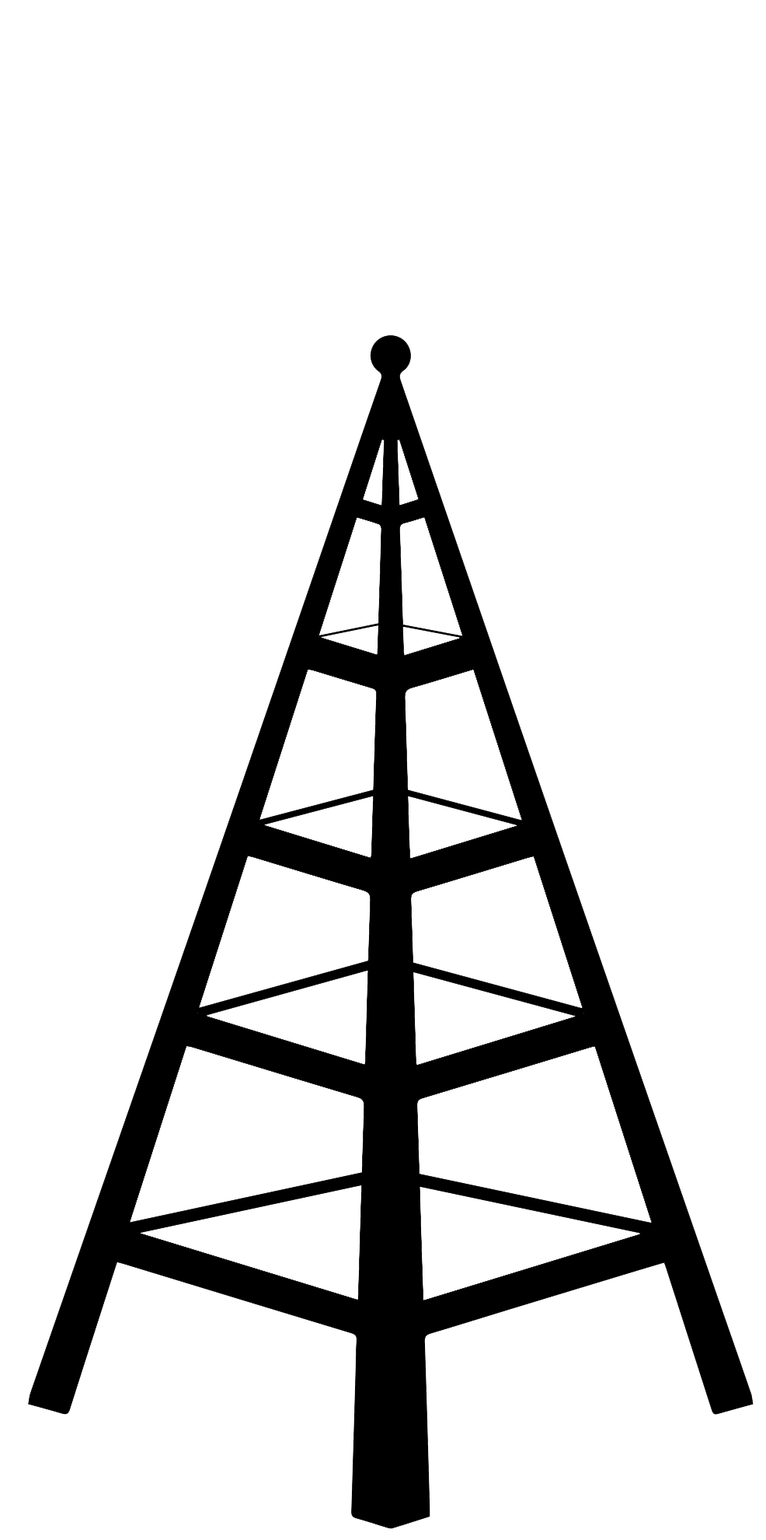
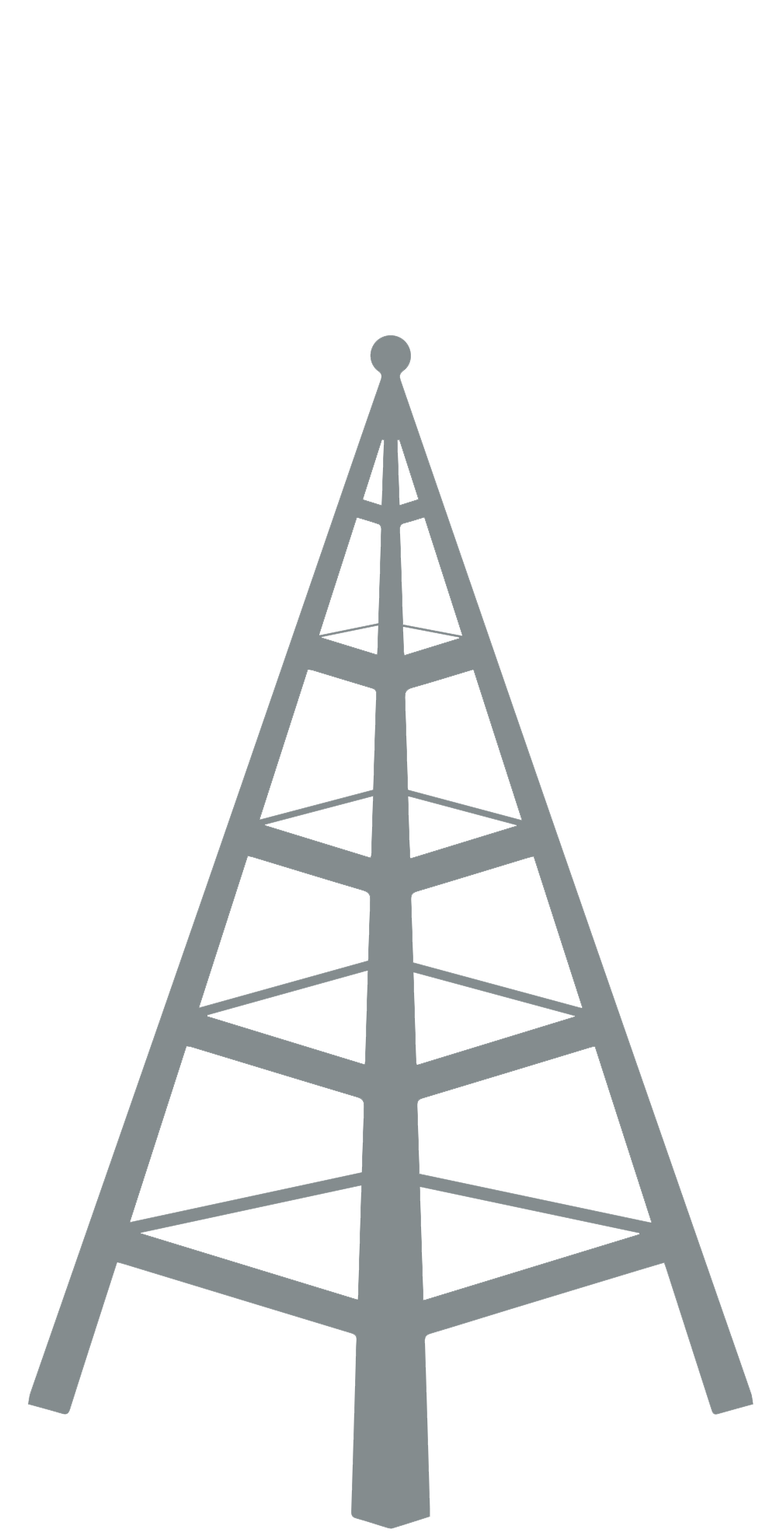
updated homepage

Changed region(s): [[0.0304, 0.2157, 1.0, 1.0]]

diff --git a/public/styles/generalStyling.min.css b/public/styles/generalStyling.min.css
@@ -1,1 +1,1 @@
-body,html{margin:0;padding:0;height:100%}body{margin-top:30px;font-family:Assistant,sans-serif}h1,h2,h3,h4,h5,h6{font-family:"Merriweather Sans",sans-serif;font-weight:700;letter-spacing:normal}h1{color:#ff9b42;font-size:64px;text-align:center}.navbar-default{border:none;background-color:#848c8e}.navbar-default .navbar-nav>li>a{color:#fff}.navbar-default .navbar-nav>li>a:hover{color:#008fbe}.navbar-default .navbar-nav>.open>a,.navbar-default .navbar-nav>.open>a:focus,.navbar-nav>.open>a:hover{color:#008fbe!important;background-color:#848c8e!important}.navbar-default .navbar-nav>li>a:focus{color:#fff}.dropdown-menu{background-color:#848c8e;border-top:none}.dropdown-menu>li>a{color:#fff}.dropdown-menu>li>a:hover{background-color:#008fbe}.logo{float:left;margin-left:11rem;margin-top:.5rem}@media (max-width:375px){.logo{margin-left:6.25rem}}@media (min-width:376px) and (max-width:667px){.logo{margin-left:8rem}}@media (min-width:668px) and (max-width:768px){.logo{margin-left:8.5rem}}@media (min-width:769px) and (max-width:1024px){.logo{margin-left:9rem}}.navbar-nav{margin-left:50px;background-color:#848c8e}#navShape,.nav-shape-shadow{width:100px;height:50px;background:0 0;position:fixed;margin-left:5%;margin-top:-2.2em;z-index:999}.nav-shape-shadow{margin-top:-27px}#navShape:after,.nav-shape-shadow:after{content:"";position:absolute;bottom:-15px;left:-40px;width:0;height:0;border-left:100px solid transparent;border-right:100px solid transparent;border-top:25px solid #848c8e;z-index:999}.nav-shape-shadow:after{border-top:29px solid #008fbe;border-left:120px solid transparent;border-right:120px solid transparent;left:-60px}.navbar-shadow{background-color:#008fbe;margin-top:-34px;margin-left:-12px;width:103%;position:fixed;z-index:998}main{padding-top:10px}.home-container{width:100%;padding-left:0;padding-right:0}.tower-image{position:absolute;height:700px;z-index:9999;top:500px}#home-images{z-index:1;position:relative;height:250px}#home-images img{height:250px;display:block}#home-content{width:100%;margin:auto;padding-top:10px;padding-bottom:10px;position:relative;text-align:center}#home-content h1{font-size:5rem}#home-content h3{margin-top:.5rem;font-size:3rem;font-family:Assistant,sans-serif}.home-sub-content{border-top:3px solid #ff9b42}.home-sub-content:last-of-type{border-top:none;padding-bottom:20px}.home-sub-content .col-xs-6{padding-left:40px}.home-sub-content .col-xs-6:last-child{padding-left:0;padding-right:40px}.services-container{width:100%;margin:auto;position:fixed}.services-container .menu-header{margin-top:35px}.services-container .services-menu{border-right:2px solid #008fbe}.services-container .services-menu ul{list-style:none}.services-container .services-menu li{font-family:"Josefin Slab",serif;letter-spacing:2px;font-size:21px;padding-top:5px;padding-bottom:5px;color:#ff9b42;transition:all .25s;width:auto}.services-container .services-menu li.selected,.services-container .services-menu li:hover{border-bottom:1px solid #008fbe;color:#008fbe}.services-container h1{font-size:36px;text-align:left;margin-top:1rem;margin-bottom:2.5rem;color:#008fbe}.services-container p{font-size:1.5em;width:85%;margin-left:auto;margin-right:auto}.services-container p:first-of-type{margin-bottom:30px}.services-container p h3{text-align:center}.services-container .services-content{padding-top:5px}.services-container .services-content h3{text-align:center}.services-container .services-content ul{list-style-type:circle}.services-container .services-content li{font-family:Assistant,sans-serif;font-size:1.5em}.services-container .services-content .service-type{color:#ff9b42;text-decoration:underline}.who-container{margin-left:-5%}.who-container h1,.who-container h3{text-align:center}.who-container h3{margin-top:0}.who-images{padding-top:5%;margin-top:1%}.who-images .slick-slider{width:150px;height:150px;margin-bottom:5%}.who-images .slick-slider .slick-slide{width:150px;height:150px}.who-images .slick-slider .slick-slide img{max-width:150px;max-height:150px}.who-images .image-wrapper{margin-left:15%}.who-images img{margin-bottom:1%}.who-images img:last-child{margin-bottom:0}.who-content h1{font-size:32px}.who-content h3{text-align:center;margin-top:10px}.staff{width:250px;height:250px;position:absolute;transform-style:preserve-3d;transition:transform 1s}.ceo{margin-top:3%;background-image:url(../assets/images/staff/tie-640.jpg);background-position:center;width:250px;height:250px;border-radius:50%}.staff figure{margin:0;display:block;position:absolute;width:100%;height:100%;backface-visibility:hidden;border-radius:50%}.staff .front{background-color:#91b1bc;background-image:url(../assets/images/staff/tie-640.jpg);background-position:center}.staff .back{transform:rotateX(180deg)}.staff .back h3{max-width:150px;margin-left:auto;margin-right:auto}.staff .back::after{border-radius:50%;content:"";background:url(../assets/images/staff/tie-640.jpg) no-repeat center center;background-size:cover;opacity:.5;top:0;left:0;bottom:0;right:0;position:absolute;z-index:-1;-webkit-filter:grayscale(2);filter:grayscale(2)}.staff.flipped{transform:rotateX(180deg)}.staff-container{padding-bottom:50px}.staff-container h1{color:#ff9b42;text-align:center;margin-top:1rem;margin-bottom:2rem}.staff-container section{height:275px}.staff-container h3{text-align:center;font-size:16px;color:#fff;display:block}.staff-container .front h3{margin-top:20rem}.staff-container .back p{text-align:center;width:190px;height:190px;font-size:10px;margin-left:auto;margin-right:auto;color:#343839}.staff-container .ceo-text h3{color:#008fbe;text-align:left;font-size:21px}.staff-container .manage-heading{color:#ff9b42;font-size:36.57143px;margin-bottom:5%;margin-top:3%}.admin-edit-header{padding:30px 0;text-align:center}.admin-edit-header h1{color:#ff9b42;font-size:32px}.admin-edit-header .add-buttons{display:inline-block}.job-posting{border-left:2px solid #008fbe;text-align:left}.job-posting h4,.job-posting h5{font-size:18px}.job-posting p{font-size:21px}.apply-posting{min-height:450px}.apply-posting .apply-button{display:block;margin-left:auto;margin-right:auto}.job-post-controls{margin-top:25px}.job-post-controls .btn{margin-top:-34px;margin-right:15px}.onOffSwitch{display:inline-block}.onOffSwitch label,.onOffSwitch p{display:inline-block}.onOffSwitch p{margin-top:-24px;vertical-align:middle}.posting-section{margin-bottom:5%}.slider{background-color:#848c8e}input:checked+.slider{background-color:#008fbe}input:focus+.slider{box-shadow:0 0 1px #008fbe}.highlight-title strong{color:#008fbe}.modal-content{padding:20px}.modal-content h3{margin-top:0;color:#343839}.modal-content label{font-size:16px;color:#343839}.modal-content button{background-color:#008fbe;padding:6px 12px;font-size:14px;text-align:center;white-space:nowrap;vertical-align:middle;border-radius:4px;border:1px solid transparent;color:#fff;width:25%;margin:auto}.modal-content input,.modal-content trix-editor{appearance:none;border:1px solid #aaa;border-radius:5px;margin-bottom:9%}.modal-content trix-toolbar{margin-bottom:5%}.modal-content trix-toolbar button{background-color:transparent}.modal-content trix-editor{height:200px;margin-bottom:3%;overflow:scroll}.admin-page,.jobs-page{min-height:590px;padding-bottom:1%}.job-postings .row{width:95%;margin-left:auto;margin-right:auto}.applyNow form{padding:10px}.applyNow input{margin-bottom:15px;margin-right:10px;width:40%}.applyNow input.large-input{width:calc(80% + 15px)}.applyNow input[type=file]{margin-bottom:15px;width:82%}.applyNow input[type=submit]{margin-left:20%}.applyNow input[type=file]:focus{outline:0}.custom-file-input::-webkit-file-upload-button{visibility:hidden}.custom-file-input::before{content:'Upload Your Resume';-webkit-user-select:none;color:#fff;position:absolute;left:41.5%;transform:translate(-50%,0)}.custom-file-input{color:transparent}.custom-file-input:active,.custom-file-input:focus,.custom-file-input:hover{color:transparent;outline:0}.custom-file-input.btn-info:active:focus{color:transparent;outline:0}.job-content{text-align:left}.job-postings{border-left:2px solid #008fbe}.job-postings article{display:none}.job-posting{min-height:350px}.job-posting .admin-job{display:none}.job-title,.job-title strong{color:#ff9b42;text-decoration:underline;text-align:center;font-size:24px}.job-header .menu-header{margin-top:35px}.job-header h1{font-size:36px;text-align:left;margin-top:1rem;margin-bottom:2.5rem;margin-left:1rem;color:#008fbe}.edit-menu ul,.jobs-menu ul{list-style:none}.edit-menu li,.jobs-menu li{font-family:"Josefin Slab",serif;letter-spacing:2px;font-size:21px;padding-top:5px;padding-bottom:5px;color:#ff9b42;transition:all .25s;width:auto}.edit-menu li.selected,.edit-menu li:hover,.jobs-menu li.selected,.jobs-menu li:hover{border-bottom:1px solid #008fbe;color:#008fbe}.admin-load-text .subheading,.job-load-text .subheading{text-align:left}.admin-load-text h3,.job-load-text h3{text-align:center}.admin-load-text ul,.job-load-text ul{list-style:circle}#contactCallUs h1{font-size:32px}#headerSection{padding:10px}.admin-auth{appearance:none;-moz-appearance:none;-webkit-appearance:none;background-color:transparent;color:#cecece;border:none}.admin-auth:hover{color:#ff9b42}#footerSection{background:#848c8e;width:100%;height:auto;position:fixed;bottom:0;left:0;text-align:center;color:#cecece}#footerSection #footer-connect,#footerSection #footer-contact{margin-top:3px}#footerSection #footer-connect p,#footerSection #footer-contact p{text-decoration:underline}#footerSection #footer-address{margin-left:5px;text-align:left;margin-top:-12px;font-size:10px}#footerSection #footer-address p:nth-of-type(2){margin-top:-10px;margin-left:35px}#footerSection #footer-nums{font-size:10px;margin-top:-12px}#footerSection #footer-nums p:nth-of-type(2){margin-top:-10px}#footerSection #copyright{font-size:8px;text-align:right;margin-left:-5px}#footerSection #footer-socials{margin-top:-10px}#footerSection #footer-socials img:nth-of-type(2){margin-left:10px}#footerSection .social-icon{width:30px}.hidden{display:none}.btn-info{background-color:#008fbe;border-color:#008fbe}.btn-info:hover{background-color:#008fbe;border-color:#008fbe;opacity:.5}.btn-danger{background-color:#ff9b42;border-color:#ff9b42}.btn-danger:hover{background-color:#ff9b42;border-color:#ff9b42;opacity:.5}.subheading{width:95%;margin:0 auto;text-align:center;font-size:21px}.blue-highlight{color:#008fbe}
+body,html{margin:0;padding:0;height:100%}body{margin-top:30px;font-family:Assistant,sans-serif}h1,h2,h3,h4,h5,h6{font-family:"Merriweather Sans",sans-serif;font-weight:700;letter-spacing:normal}h1{color:#ff9b42;font-size:64px;text-align:center}.navbar-default{border:none;background-color:#848c8e}.navbar-default .navbar-nav>li>a{color:#fff}.navbar-default .navbar-nav>li>a:hover{color:#008fbe}.navbar-default .navbar-nav>.open>a,.navbar-default .navbar-nav>.open>a:focus,.navbar-nav>.open>a:hover{color:#008fbe!important;background-color:#848c8e!important}.navbar-default .navbar-nav>li>a:focus{color:#fff}.dropdown-menu{background-color:#848c8e;border-top:none}.dropdown-menu>li>a{color:#fff}.dropdown-menu>li>a:hover{background-color:#008fbe}.logo{float:left;margin-left:11rem;margin-top:.5rem}@media (max-width:375px){.logo{margin-left:6.25rem}}@media (min-width:376px) and (max-width:667px){.logo{margin-left:8rem}}@media (min-width:668px) and (max-width:768px){.logo{margin-left:8.5rem}}@media (min-width:769px) and (max-width:1024px){.logo{margin-left:9rem}}.navbar-nav{margin-left:50px;background-color:#848c8e}#navShape,.nav-shape-shadow{width:100px;height:50px;background:0 0;position:fixed;margin-left:5%;margin-top:-2.2em;z-index:999}.nav-shape-shadow{margin-top:-27px}#navShape:after,.nav-shape-shadow:after{content:"";position:absolute;bottom:-15px;left:-40px;width:0;height:0;border-left:100px solid transparent;border-right:100px solid transparent;border-top:25px solid #848c8e;z-index:999}.nav-shape-shadow:after{border-top:29px solid #008fbe;border-left:120px solid transparent;border-right:120px solid transparent;left:-60px}.navbar-shadow{background-color:#008fbe;margin-top:-34px;margin-left:-12px;width:103%;position:fixed;z-index:998}main{padding-top:10px}.home-container{width:100%;padding-left:0;padding-right:0}.tower-image{position:relative;height:550px;margin-top:-200px;margin-left:-85px}#home-images{padding:0;z-index:1;position:relative;height:400px}#home-images img{height:400px;display:block}#home-content{text-align:center}#home-content h1{margin-top:1em;font-size:64px}#home-content h3{margin-top:.5rem;font-size:21px;font-family:Assistant,sans-serif}.home-sub-content{border-top:3px solid #ff9b42}.home-sub-content:last-of-type{border-top:none;padding-bottom:20px}.home-sub-content .col-xs-6{padding-left:40px}.home-sub-content .col-xs-6:last-child{padding-left:0;padding-right:40px}.home-paragraph{color:#fff;font-size:21px;font-family:Assistant,sans-serif;width:85%;margin-left:auto;margin-right:auto}.home-paragraph:first-of-type{margin-top:50px}.home-paragraph:last-of-type{margin-bottom:50px}.home-button{width:200px;margin-left:auto;margin-right:auto;display:block}.work-contact-content h3,.work-home-content h3{margin-top:50px;text-align:center}.work-contact-content p,.work-home-content p{color:#fff;font-size:21px;margin-bottom:20px}.work-contact-content a,.work-home-content a{margin-bottom:20px}.worker-image{height:470px;position:relative;margin-top:-100px}.services-container{width:100%;margin:auto;position:fixed}.services-container .menu-header{margin-top:35px}.services-container .services-menu{border-right:2px solid #008fbe}.services-container .services-menu ul{list-style:none}.services-container .services-menu li{font-family:"Josefin Slab",serif;letter-spacing:2px;font-size:21px;padding-top:5px;padding-bottom:5px;color:#ff9b42;transition:all .25s;width:auto}.services-container .services-menu li.selected,.services-container .services-menu li:hover{border-bottom:1px solid #008fbe;color:#008fbe}.services-container h1{font-size:36px;text-align:left;margin-top:1rem;margin-bottom:2.5rem;color:#008fbe}.services-container p{font-size:1.5em;width:85%;margin-left:auto;margin-right:auto}.services-container p:first-of-type{margin-bottom:30px}.services-container p h3{text-align:center}.services-container .services-content{padding-top:5px}.services-container .services-content h3{text-align:center}.services-container .services-content ul{list-style-type:circle}.services-container .services-content li{font-family:Assistant,sans-serif;font-size:1.5em}.services-container .services-content .service-type{color:#ff9b42;text-decoration:underline}.who-container{margin-left:-5%}.who-container h1,.who-container h3{text-align:center}.who-container h3{margin-top:0}.who-images{padding-top:5%;margin-top:1%}.who-images .slick-slider{width:150px;height:150px;margin-bottom:5%}.who-images .slick-slider .slick-slide{width:150px;height:150px}.who-images .slick-slider .slick-slide img{max-width:150px;max-height:150px}.who-images .image-wrapper{margin-left:15%}.who-images img{margin-bottom:1%}.who-images img:last-child{margin-bottom:0}.who-content h1{font-size:32px}.who-content h3{text-align:center;margin-top:10px}.staff{width:250px;height:250px;position:absolute;transform-style:preserve-3d;transition:transform 1s}.ceo{margin-top:3%;background-image:url(../assets/images/staff/tie-640.jpg);background-position:center;width:250px;height:250px;border-radius:50%}.staff figure{margin:0;display:block;position:absolute;width:100%;height:100%;backface-visibility:hidden;border-radius:50%}.staff .front{background-color:#91b1bc;background-image:url(../assets/images/staff/tie-640.jpg);background-position:center}.staff .back{transform:rotateX(180deg)}.staff .back h3{max-width:150px;margin-left:auto;margin-right:auto}.staff .back::after{border-radius:50%;content:"";background:url(../assets/images/staff/tie-640.jpg) no-repeat center center;background-size:cover;opacity:.5;top:0;left:0;bottom:0;right:0;position:absolute;z-index:-1;-webkit-filter:grayscale(2);filter:grayscale(2)}.staff.flipped{transform:rotateX(180deg)}.staff-container{padding-bottom:50px}.staff-container h1{color:#ff9b42;text-align:center;margin-top:1rem;margin-bottom:2rem}.staff-container section{height:275px}.staff-container h3{text-align:center;font-size:16px;color:#fff;display:block}.staff-container .front h3{margin-top:20rem}.staff-container .back p{text-align:center;width:190px;height:190px;font-size:10px;margin-left:auto;margin-right:auto;color:#343839}.staff-container .ceo-text h3{color:#008fbe;text-align:left;font-size:21px}.staff-container .manage-heading{color:#ff9b42;font-size:36.57143px;margin-bottom:5%;margin-top:3%}.admin-edit-header{padding:30px 0;text-align:center}.admin-edit-header h1{color:#ff9b42;font-size:32px}.admin-edit-header .add-buttons{display:inline-block}.job-posting{border-left:2px solid #008fbe;text-align:left}.job-posting h4,.job-posting h5{font-size:18px}.job-posting p{font-size:21px}.apply-posting{min-height:450px}.apply-posting .apply-button{display:block;margin-left:auto;margin-right:auto}.job-post-controls{margin-top:25px}.job-post-controls .btn{margin-top:-34px;margin-right:15px}.onOffSwitch{display:inline-block}.onOffSwitch label,.onOffSwitch p{display:inline-block}.onOffSwitch p{margin-top:-24px;vertical-align:middle}.posting-section{margin-bottom:5%}.slider{background-color:#848c8e}input:checked+.slider{background-color:#008fbe}input:focus+.slider{box-shadow:0 0 1px #008fbe}.highlight-title strong{color:#008fbe}.modal-content{padding:20px}.modal-content h3{margin-top:0;color:#343839}.modal-content label{font-size:16px;color:#343839}.modal-content button{background-color:#008fbe;padding:6px 12px;font-size:14px;text-align:center;white-space:nowrap;vertical-align:middle;border-radius:4px;border:1px solid transparent;color:#fff;width:25%;margin:auto}.modal-content input,.modal-content trix-editor{appearance:none;border:1px solid #aaa;border-radius:5px;margin-bottom:9%}.modal-content trix-toolbar{margin-bottom:5%}.modal-content trix-toolbar button{background-color:transparent}.modal-content trix-editor{height:200px;margin-bottom:3%;overflow:scroll}.admin-page,.jobs-page{min-height:590px;padding-bottom:1%}.job-postings .row{width:95%;margin-left:auto;margin-right:auto}.applyNow form{padding:10px}.applyNow input{margin-bottom:15px;margin-right:10px;width:40%}.applyNow input.large-input{width:calc(80% + 15px)}.applyNow input[type=file]{margin-bottom:15px;width:82%}.applyNow input[type=submit]{margin-left:20%}.applyNow input[type=file]:focus{outline:0}.custom-file-input::-webkit-file-upload-button{visibility:hidden}.custom-file-input::before{content:'Upload Your Resume';-webkit-user-select:none;color:#fff;position:absolute;left:41.5%;transform:translate(-50%,0)}.custom-file-input{color:transparent}.custom-file-input:active,.custom-file-input:focus,.custom-file-input:hover{color:transparent;outline:0}.custom-file-input.btn-info:active:focus{color:transparent;outline:0}.job-content{text-align:left}.job-postings{border-left:2px solid #008fbe}.job-postings article{display:none}.job-posting{min-height:350px}.job-posting .admin-job{display:none}.job-title,.job-title strong{color:#ff9b42;text-decoration:underline;text-align:center;font-size:24px}.job-header .menu-header{margin-top:35px}.job-header h1{font-size:36px;text-align:left;margin-top:1rem;margin-bottom:2.5rem;margin-left:1rem;color:#008fbe}.edit-menu ul,.jobs-menu ul{list-style:none}.edit-menu li,.jobs-menu li{font-family:"Josefin Slab",serif;letter-spacing:2px;font-size:21px;padding-top:5px;padding-bottom:5px;color:#ff9b42;transition:all .25s;width:auto}.edit-menu li.selected,.edit-menu li:hover,.jobs-menu li.selected,.jobs-menu li:hover{border-bottom:1px solid #008fbe;color:#008fbe}.admin-load-text .subheading,.job-load-text .subheading{text-align:left}.admin-load-text h3,.job-load-text h3{text-align:center}.admin-load-text ul,.job-load-text ul{list-style:circle}#contactCallUs h1{font-size:32px}#headerSection{padding:10px}.admin-auth{appearance:none;-moz-appearance:none;-webkit-appearance:none;background-color:transparent;color:#cecece;border:none}.admin-auth:hover{color:#ff9b42}#footerSection{background:#848c8e;width:100%;height:auto;position:fixed;bottom:0;left:0;text-align:center;color:#cecece}#footerSection #footer-connect,#footerSection #footer-contact{margin-top:3px}#footerSection #footer-connect p,#footerSection #footer-contact p{text-decoration:underline}#footerSection #footer-address{margin-left:5px;text-align:left;margin-top:-12px;font-size:10px}#footerSection #footer-address p:nth-of-type(2){margin-top:-10px;margin-left:35px}#footerSection #footer-nums{font-size:10px;margin-top:-12px}#footerSection #footer-nums p:nth-of-type(2){margin-top:-10px}#footerSection #copyright{font-size:8px;text-align:right;margin-left:-5px}#footerSection #footer-socials{margin-top:-10px}#footerSection #footer-socials img:nth-of-type(2){margin-left:10px}#footerSection .social-icon{width:30px}.hidden{display:none}.btn-info{background-color:#008fbe;border-color:#008fbe}.btn-info:hover{background-color:#008fbe;border-color:#008fbe;opacity:.5}.btn-default{color:#fff;background-color:#cecece;border-color:#cecece}.btn-default:hover{color:#fff;background-color:#cecece;border-color:#cecece;opacity:.5}.btn-danger{background-color:#ff9b42;border-color:#ff9b42}.btn-danger:hover{background-color:#ff9b42;border-color:#ff9b42;opacity:.5}.subheading{width:95%;margin:0 auto;text-align:center;font-size:21px}.blue-highlight{color:#008fbe}

diff --git a/public/views/partials/home.html b/public/views/partials/home.html
@@ -1,16 +1,73 @@
-<img class="tower-image" src="../assets/images/Cell-Tower.png">
 <div class="container home-container">
-  <div id="home-content">
-    <h1>One Way Building Services</h1>
-    <h3>There’s only One Way <i class="fa fa-arrow-right orange-highlight" aria-hidden="true"></i>The Right Way</h3>
-  </div>
-  <div id="home-images" class="col-md-12" style="margin-bottom: 10px;" >
+  <div class='row' style="min-height: 250px; background-color:#ffffff;">
+  <div id="home-images" class="col-md-8">
     <img src="../assets/images/cell-tower-1920.jpg" alt="">
     <img src="../assets/images/Currents1_0117.jpg" alt="">
     <img src="../assets/images/Mobile-Mast-Antenna-Cell-Tower-Microwave-Tower-2252153.jpg" alt="">
     <img src="../assets/images/Cell_Tower_at_Sunset_CLOSE.jpg" alt="">
   </div>
-
-  <div class='row col-md-10' style="min-height: 250px; background-color:#2274A5; margin-bottom: 10px;"></div>
-  <div class='row col-md-10 col-md-offset-2' style="min-height: 250px; background-color:#CECECE; margin-bottom: 10px;"></div>
-  <div class='row col-md-10' style="min-height: 250px; background-color:#EE8434; margin-bottom: 10px;"></div>
+  <div class="col-md-4" id="home-content">
+    <h1>One Way Building Services</h1>
+    <h3>There’s only One Way <i class="fa fa-arrow-right orange-highlight" aria-hidden="true"></i>The Right Way</h3>
+  </div>
+</div>
+  <div class="row">
+    <div class='col-md-12' style="min-height: 350px; background-color:#2274A5;">
+      <h3 style="text-align: center;"> Since 1977 </h3>
+      <p class="home-paragraph">2017 marks One Way Building Services’ 40-year anniversary and we’re proud to have served countless customers throughout the Midwest and beyond. </p>
+      <p class="home-paragraph">With a vast portfolio of services offered under one roof, we are an all-encompassing provider of cellular telecommunications infrastructure and more.</p>
+      <a href="#!/services" class="btn btn-danger home-button">Learn More</a>
+    </div>
+  </div>
+  <div class="row">
+    <div class='col-md-8' style="min-height: 350px; background-color:#CECECE;">
+      <div class="col-md-7 col-md-offset-5 work-home-content">
+        <h3>Work <i class="fa fa-arrow-right orange-highlight" aria-hidden="true"></i> The Right Way. </h3>
+        <p>Work for One Way. More copy about working here.Lorem ipsum dolor sit amet, consectetur adipiscing elit. Suspendisse vehicula elementum risus, sit amet suscipit dolor blandit eget. Quisque vulputate nunc eget lorem mattis, et mollis augue mollis. Suspendisse ac ultricies lorem, sit amet auctor orci.</p>
+        <a href="#!/careers" class="btn btn-info home-button">Join Our Team</a>
+      </div>
+    </div>
+    <div class="col-md-4 work-image">
+      <img class="worker-image" src="../assets/images/worker.png" alt="">
+    </div>
+  </div>
+  <div class="row">
+    <div class="col-md-4">
+    <svg class="tower-image" xmlns="http://www.w3.org/2000/svg" xmlns:xlink="http://www.w3.org/1999/xlink" version="1.1" x="0px" y="0px" viewBox="0 0 100 100" enable-background="new 0 0 100 100" xml:space="preserve"><g><path id="fourth-ray" fill-rule="evenodd" fill = "#343839" clip-rule="evenodd" d="M68.097,29.563c-0.893-0.333-1.65-0.799-2.491-1.182   c1.225-2.554,2.158-5.044,1.938-8.642c-0.275-4.475-2.172-8.087-4.891-10.825c-3.035-3.057-7.231-5.333-13.103-5.003   c-8.595,0.482-15.943,7.451-15.963,16.646c-0.007,3.152,0.751,5.371,1.938,7.823c-0.624,0.567-1.504,0.882-2.307,1.273   c-1.566-2.871-2.338-6.02-2.215-9.915c0.11-3.444,1.412-6.961,2.861-9.278c2.979-4.764,8.35-8.588,15.225-9.188   c0.967-0.084,1.829-0.076,2.86,0c6.894,0.505,12.396,4.309,15.41,9.096C70.454,15.285,71.635,23.739,68.097,29.563z"/><path id="third-ray" fill-rule="evenodd" fill = "#343839" clip-rule="evenodd" d="M62.099,26.652c-0.605-0.222-1.159-0.495-1.661-0.819   c2.99-7.502-1.993-14.831-9.135-15.373c-3.642-0.277-6.698,0.991-8.858,3.093c-2.566,2.496-4.57,8.171-2.215,12.371   c-0.315,0.478-1.064,0.527-1.476,0.91c-0.942-1.971-1.464-3.542-1.292-6.277c0.4-6.343,5.636-11.371,11.903-11.825   C59.136,8.024,65.884,17.715,62.099,26.652z"/><path id ="second-ray" fill = "#343839" fill-rule="evenodd" clip-rule="evenodd" d="M56.562,24.014c-0.29-0.108-0.488-0.307-0.831-0.364   c1.138-2.196,0.478-5.28-0.923-6.822c-3.621-3.989-11.159-1.334-10.519,4.821c0.083,0.803,0.477,1.127,0.461,2.092   c-0.236,0.041-0.424,0.127-0.554,0.272c-0.357-0.258-0.527-0.764-0.646-1.182c-1.231-4.347,1.977-8.4,5.813-8.824   C55.117,13.374,58.949,18.804,56.562,24.014z"/><path  id="first-ray" fill = "#343839"  fill-rule="evenodd" clip-rule="evenodd" d="M49.642,18.193c1.581-0.352,3.018,0.579,3.229,1.91   c0.583,3.659-5.091,4.06-5.167,0.546C47.674,19.26,48.467,18.454,49.642,18.193z M50.472,22.377   c2.237-0.187,1.966-3.823-0.461-3.457C47.611,19.283,48.324,22.557,50.472,22.377z"/><path id ="center" fill = "#343839"  fill-rule="evenodd" clip-rule="evenodd" d="M49.826,19.284c0.921-0.259,1.869,0.236,1.938,1.183   c0.137,1.877-2.891,2.193-2.953,0.182C48.79,19.973,49.118,19.483,49.826,19.284z"/><path fill = "#343839" fill-rule="evenodd" clip-rule="evenodd" d="M80.917,97.615c-1.48-1.302-3.009-2.545-4.577-3.749   c-0.174-0.109-0.354-0.212-0.492-0.355V93.5c-0.036-0.018-0.072-0.034-0.107-0.052l-0.062,0.017l-0.058-0.073   c-0.048-0.023-0.096-0.045-0.144-0.068c-1.173-0.575-2.222-1.537-3.485-1.884c-0.159-0.044-0.259-0.141-0.311-0.256   c-0.141-0.084-0.278-0.166-0.408-0.236c-0.088-0.02-0.175-0.024-0.263-0.039l-0.038,0.01L70.959,90.9   c-0.153-0.024-0.309-0.06-0.459-0.068c-0.254-0.016-0.403-0.183-0.457-0.375c-0.117-0.049-0.236-0.096-0.353-0.145   c-0.077-0.004-0.156-0.022-0.231-0.021c-0.209,0.004-0.343-0.104-0.417-0.244c-0.042-0.017-0.083-0.034-0.125-0.051   c-0.125-0.01-0.249-0.029-0.375-0.037c-0.578-0.037-0.633-0.85-0.164-0.978C62.801,67.213,57.221,45.448,51.764,23.56   c-0.995,0.297-1.957,0.297-2.953,0C43.783,44.088,38.25,64.961,33.125,85.232c-0.279,1.105-0.435,2.27-0.949,3.288   c-0.02,0.045-0.025,0.092-0.041,0.137c0.025,0.152-0.004,0.314-0.103,0.432c-0.014,0.108-0.028,0.217-0.032,0.328   c-0.004,0.156-0.068,0.273-0.16,0.354c0,0.188-0.033,0.343-0.192,0.374c-0.012-0.017-0.024-0.033-0.037-0.05   c-0.081,0.093-0.201,0.155-0.361,0.155c-0.037,0-0.064-0.014-0.097-0.02c-0.014,0.002-0.022,0.012-0.037,0.013   c0.025,0.027,0.05,0.053,0.07,0.084c-0.495,0.118-0.769,0.454-1.292,0.546l-0.108,0.136l-0.169-0.045   c-0.568,0.319-1.094,0.681-1.753,0.909c0.01-0.031,0.037-0.046,0.052-0.072c-1.104,0.809-2.342,1.422-3.397,2.303   c-0.066,0.056-0.136,0.088-0.207,0.105c-0.021,0.019-0.034,0.04-0.061,0.056c-0.301,0.18-0.586,0.381-0.872,0.582   c-1.466,1.228-2.833,2.565-4.092,4.03c20.826-0.055,41.875,0.113,62.555-0.086C81.553,98.385,81.229,98.004,80.917,97.615z    M63.852,83.231c-3.665-2.147-7.972-3.663-12.18-5.275c3.18-1.383,6.668-2.463,9.873-3.82   C62.313,77.167,63.083,80.199,63.852,83.231z M59.884,67.858c-2.762-1.188-5.406-2.493-8.212-3.638   c1.989-1.192,4.482-1.888,6.459-3.093C58.846,63.242,59.387,65.529,59.884,67.858z M55.824,51.576   c0.356,1.681,0.843,3.231,1.199,4.912c-1.959-0.828-3.766-1.806-5.721-2.638c0.473-0.608,1.316-0.738,2.03-1.092   c0.775-0.385,1.537-0.826,2.307-1.183H55.824z M54.993,48.393c-1.354-0.667-2.706-1.334-4.06-2.001   c0.699-0.796,2.008-0.993,2.86-1.638h0.276L54.993,48.393z M46.693,42.498c0.842-1.352,1.099-3.456,1.492-4.993   c0.5-1.954,1.087-3.843,1.106-5.879c0.003-0.271,0.183-0.422,0.389-0.464c-0.014-0.15-0.026-0.299-0.014-0.452   c0.026-0.315,0.284-0.475,0.532-0.479c-0.002-0.01-0.001-0.02-0.004-0.03c0.024,0.006,0.047,0.022,0.068,0.038   c0.227,0.023,0.428,0.175,0.403,0.471c-0.015,0.183,0,0.364,0.022,0.544c0.12,0.049,0.219,0.149,0.252,0.323   c0.346,1.832,1.37,3.656,1.448,5.521c0.074,1.776,0.722,3.761,1.385,5.438c0.094,0.237-0.003,0.417-0.165,0.516   c-0.002,0.024,0.007,0.038,0,0.067c0.021,0.05,0.021,0.081,0.018,0.106c0.093,0.124,0.12,0.29,0.086,0.442   c0.049,0.008,0.086,0.027,0.081,0.088c0.204,0.729-0.969,1.023-1.477,1.273c-0.698,0.344-1.439,0.709-2.03,1   c-0.647-0.188-1.215-0.597-1.845-0.91c-0.598-0.296-1.475-0.415-1.753-1.091c0.001-0.113,0.055-0.175,0.128-0.218   c-0.032-0.145-0.007-0.298,0.075-0.419h-0.019c-0.002-0.089,0.029-0.146,0.056-0.206C46.681,43.074,46.508,42.796,46.693,42.498z    M46.504,44.754c1.04,0.46,1.958,1.041,3.045,1.456c-0.445,0.539-1.185,0.781-1.846,1.092c-0.654,0.307-1.356,0.646-2.03,0.909   C45.876,46.985,46.24,45.919,46.504,44.754z M47.519,47.938c0.996-0.458,2.019-1.152,2.768-1.274   c1.336,0.575,2.746,1.289,4.061,2.001c0.431,0.233,1.052,0.316,0.923,1c-3.423,0.069-6.561-0.143-9.966-0.091   C45.337,48.598,46.655,48.335,47.519,47.938z M45.212,50.121c2.833-0.074,5.49,0.091,8.305,0.091c0.678,0,1.431-0.149,2.029,0.182   c0.154,0.655-0.605,0.812-1.015,1.001c-0.933,0.429-1.715,0.785-2.769,1.273c-0.479,0.222-1.028,0.629-1.384,0.637   c-0.517,0.011-2.167-0.896-2.769-1.183c-0.947-0.451-1.822-0.86-2.583-1.364C45.019,50.476,45.07,50.253,45.212,50.121z    M44.751,51.576c0.825,0.166,1.672,0.707,2.492,1.092c0.753,0.354,1.627,0.579,2.122,1.183c-2.005,0.812-3.802,1.831-5.813,2.638   C43.871,54.771,44.373,53.235,44.751,51.576z M44.382,56.943c1.846-0.876,4.017-1.976,5.905-2.82   c2.396,1.035,4.659,2.199,7.014,3.275c-0.005,0.432,0.336,0.896,0.185,1.182c-4.078-0.232-9.854,0.062-14.487-0.182   C42.975,57.458,43.701,57.267,44.382,56.943z M42.906,59.217c4.987,0.026,10.123-0.094,14.856,0.183   c0.158,0.208,0.088,0.641,0.276,0.818c-1.627,1.021-3.523,1.748-5.536,2.638c-0.544,0.241-1.408,0.809-1.846,0.819   c-0.453,0.011-1.541-0.562-2.122-0.819c-2.004-0.883-4.055-1.869-5.905-2.819C42.688,59.729,42.694,59.373,42.906,59.217z    M42.352,60.945c2.47,0.931,4.619,2.178,7.105,3.093c-0.56,0.609-1.479,0.771-2.214,1.092c-2.168,0.947-4.513,2.025-6.644,3.093   C40.94,65.922,41.839,63.382,42.352,60.945z M40.229,69.224c3.311-1.679,6.871-3.112,10.335-4.64   c3.266,1.42,6.567,2.805,9.688,4.366c0.061,0.607,0.27,1.069,0.369,1.638c-6.914-0.103-14.349-0.214-20.669,0.182   C39.827,70.374,40.206,69.767,40.229,69.224z M39.676,71.588c6.666-0.304,14.748-0.388,21.224-0.091   c0.082,0.556,0.255,1.022,0.369,1.547c-2.584,1.24-5.325,2.142-8.305,3.274c-0.859,0.326-2.083,1-2.861,1.001   c-0.8,0.001-1.879-0.661-2.768-1.001c-2.725-1.042-5.469-1.935-8.028-3.093C39.332,72.583,39.529,72.11,39.676,71.588z    M39.03,74.136c2.993,1.354,6.131,2.566,9.412,3.638c-0.297,0.45-0.918,0.548-1.384,0.729c-3.472,1.34-7.277,2.621-10.243,4.548   C37.332,80.224,38.274,77.028,39.03,74.136z M65.117,89.108c-0.642-0.165-1.249-0.432-1.871-0.652   c-4.235-0.807-8.713-2.01-13.027-1.581c-2.138,0.213-4.199,0.354-6.344,0.469c-2.607,0.14-5.045,0.858-7.555,1.514   c-0.066,0.018-0.127,0.021-0.185,0.016c-0.064,0.052-0.136,0.094-0.199,0.147c-0.489,0.414-1.2-0.29-0.707-0.707   c0.056-0.048,0.119-0.085,0.176-0.132c0.369-1.325,0.681-2.706,1.041-4.04c4.123-2.364,8.883-4.1,13.749-5.731   c4.781,1.927,9.996,3.427,14.025,6.095c0.245,1.235,0.547,2.415,0.889,3.555c0.091,0.027,0.181,0.061,0.273,0.084   C66.007,88.305,65.742,89.27,65.117,89.108z"/><g><path fill = "#343839"  fill-rule="evenodd" clip-rule="evenodd" fill="none" stroke="#343839" stroke-width="0.35" stroke-linecap="round" d="    M41.475,84.369"/><path fill = "#343839"  fill-rule="evenodd" clip-rule="evenodd" fill="none" stroke="#343839" stroke-width="0.35" stroke-linecap="round" d="    M58.639,84.369"/></g></g><polygon fill-rule="evenodd" clip-rule="evenodd" fill="none" stroke="#343839" stroke-width="0.35" stroke-linecap="round" points="  46.874,43.39 50,29.875 50.298,29.333 53.834,43.39 50.703,29.654 50.298,28.583 49.417,29.25 49.458,29.875 46.458,43.39   45.917,43.556 46.625,43.556 49.875,29.167 "/><path  fill = "#343839" fill-rule="evenodd" clip-rule="evenodd" fill="none" stroke="#343839" stroke-width="0.35" stroke-linecap="round" d="  M46.699,44.485c-0.538,1.769-1.077,3.539-1.615,5.308c3.486,0,6.972,0,10.458,0c-0.569-2.134-1.139-4.269-1.708-6.403"/><path  fill = "#343839" fill-rule="evenodd" clip-rule="evenodd" d="M67.167,89.291l1.375,0.375c9.063,3.026,13.302,9.125,13.302,9.125"/><polygon fill = "#343839" fill-rule="evenodd" clip-rule="evenodd" points="67.167,88.041 67.792,88.041 68.137,88.041 68.667,90.207 68.084,89.832   65.584,87.124 65.292,87.416 64.966,87.568 65.542,89.749 66.816,89.541 "/><path fill = "#343839" fill-rule="evenodd" clip-rule="evenodd" d="M65.117,89.108c0,0-7.639-2.108-14.898-2.233  c-7.259-0.125-14.592,2.262-14.592,2.262l-0.417,0.613l19.667,1.541l11.776-1.724l-0.401-0.276l-3.005-0.835  c0,0-5.042-1.167-7.497-1.402s-0.79,2.612-0.79,2.612L65.117,89.108z"/><polygon fill = "#343839" fill-rule="evenodd" clip-rule="evenodd" points="35.688,87.124 35.197,88.954 34.917,90 35.303,86.87 33.709,91.291 "/><polygon fill = "#343839" fill-rule="evenodd" clip-rule="evenodd" points="36.042,92.375 37.049,88.666 34.759,89.081 35.904,92.208 32.899,86.213   31.542,90.708 "/><path fill = "#343839"  fill-rule="evenodd" clip-rule="evenodd" d="M19.289,98.877c0,0,4.657-6.532,12.435-8.768s-1.806,2.974-1.806,2.974  L19.289,98.877z"/><polygon fill = "#343839" fill-rule="evenodd" clip-rule="evenodd" points="47.188,42.781 46.604,44.799 46.062,43.79 47.066,42.556 "/></svg>
+  </div>
+  <div class='row col-md-8 work-contact-content' style="min-height: 355px; background-color:#EE8434">
+    <h3>Get in Touch</h3>
+    <p>Something about contatcting us. More copy about working here.Lorem ipsum dolor sit amet, consectetur adipiscing elit. Suspendisse vehicula elementum risus, sit amet suscipit dolor blandit eget. Quisque vulputate nunc eget lorem mattis, et mollis augue mollis. Suspendisse ac ultricies lorem, sit amet auctor orci.</p>
+    <a href="#!/contactUs" class="btn btn-default home-button">Contact Us</a>
+  </div>
+</div>
+<script>
+var animateTower = function(){
+    setTimeout(function() {
+      document.getElementById("center").setAttribute("fill", "#EE8434");
+    },500);
+    setTimeout(function() {
+      document.getElementById("center").setAttribute("fill", "#343839");
+      document.getElementById("first-ray").setAttribute("fill", "#EE8434");
+    },1000);
+    setTimeout(function() {
+      document.getElementById("first-ray").setAttribute("fill", "#343839");
+      document.getElementById("second-ray").setAttribute("fill", "#EE8434");
+    },1500);
+    setTimeout(function() {
+      document.getElementById("second-ray").setAttribute("fill", "#343839");
+      document.getElementById("third-ray").setAttribute("fill", "#EE8434");
+    },2000);
+    setTimeout(function() {
+      document.getElementById("third-ray").setAttribute("fill", "#343839");
+      document.getElementById("fourth-ray").setAttribute("fill", "#EE8434");
+    },2500);
+    setTimeout(function() {
+      document.getElementById("fourth-ray").setAttribute("fill", "#343839");
+    },3000);
+  }
+  animateTower();
+  setInterval(function() {
+  animateTower();
+}, 3100);
+</script>

diff --git a/public/styles/generalStyling.css b/public/styles/generalStyling.css
@@ -115,31 +115,28 @@ main {
   padding-right: 0; }
 
 .tower-image {
-  position: absolute;
-  height: 700px;
-  z-index: 9999;
-  top: 500px; }
+  position: relative;
+  height: 550px;
+  margin-top: -200px;
+  margin-left: -85px; }
 
 #home-images {
+  padding: 0;
   z-index: 1;
   position: relative;
-  height: 250px; }
+  height: 400px; }
   #home-images img {
-    height: 250px;
+    height: 400px;
     display: block; }
 
 #home-content {
-  width: 100%;
-  margin: auto;
-  padding-top: 10px;
-  padding-bottom: 10px;
-  position: relative;
   text-align: center; }
   #home-content h1 {
-    font-size: 5rem; }
+    margin-top: 1em;
+    font-size: 64px; }
   #home-content h3 {
     margin-top: 0.5rem;
-    font-size: 3rem;
+    font-size: 21px;
     font-family: "Assistant", sans-serif; }
 
 .home-sub-content {
@@ -152,6 +149,39 @@ main {
     .home-sub-content .col-xs-6:last-child {
       padding-left: 0;
       padding-right: 40px; }
+
+.home-paragraph {
+  color: #ffffff;
+  font-size: 21px;
+  font-family: "Assistant", sans-serif;
+  width: 85%;
+  margin-left: auto;
+  margin-right: auto; }
+  .home-paragraph:first-of-type {
+    margin-top: 50px; }
+  .home-paragraph:last-of-type {
+    margin-bottom: 50px; }
+
+.home-button {
+  width: 200px;
+  margin-left: auto;
+  margin-right: auto;
+  display: block; }
+
+.work-home-content h3, .work-contact-content h3 {
+  margin-top: 50px;
+  text-align: center; }
+.work-home-content p, .work-contact-content p {
+  color: #ffffff;
+  font-size: 21px;
+  margin-bottom: 20px; }
+.work-home-content a, .work-contact-content a {
+  margin-bottom: 20px; }
+
+.worker-image {
+  height: 470px;
+  position: relative;
+  margin-top: -100px; }
 
 /********************************* Services Styles *****************************/
 .services-container {
@@ -576,6 +606,16 @@ input:focus + .slider {
   .btn-info:hover {
     background-color: #008FBE;
     border-color: #008FBE;
+    opacity: 0.5; }
+
+.btn-default {
+  color: #ffffff;
+  background-color: #CECECE;
+  border-color: #CECECE; }
+  .btn-default:hover {
+    color: #ffffff;
+    background-color: #CECECE;
+    border-color: #CECECE;
     opacity: 0.5; }
 
 .btn-danger {

diff --git a/public/styles/main.scss b/public/styles/main.scss
@@ -149,36 +149,32 @@ main{
 	padding-right: 0;
 }
 .tower-image{
-	position: absolute;
-	height: 700px;
-	z-index: 9999;
-	top: 500px;
+	position: relative;
+	height: 550px;
+	margin-top: -200px;
+	margin-left: -85px;
 }
 #home-images{
+	padding: 0;
 	z-index: 1;
 	position: relative;
-	height: 250px;
+	height: 400px;
 	img{
-		height: 250px;
+		height: 400px;
 
 		display: block;
 	}
 }
 
  #home-content{
-	 width: 100%;
-	 margin:auto;
-	 padding-top: 10px;
-	 padding-bottom: 10px;
-	 position: relative;
    text-align: center;
-
    h1{
-     font-size: 5rem;
+		 margin-top: 1em;
+     font-size: $pageHeading;
    }
    h3{
      margin-top: 0.5rem;
-     font-size:3rem;
+     font-size:$subHeading;
 		 font-family: $body;
 
    }
@@ -196,6 +192,45 @@ main{
 			 padding-right: 40px;
 		 }
 	 }
+ }
+ .home-paragraph{
+	 color:$white;
+	 font-size: $subHeading;
+	 font-family: $body;
+	 width: 85%;
+	 margin-left: auto;
+	 margin-right:auto;
+	 &:first-of-type{
+		 margin-top: 50px;
+	 }
+	 &:last-of-type{
+		 margin-bottom: 50px;
+	 }
+ }
+ .home-button{
+	 width: 200px;
+	 margin-left:auto;
+	 margin-right: auto;
+	 display: block;
+ }
+ .work-home-content, .work-contact-content{
+	 h3{
+		 margin-top: 50px;
+		 text-align: center;
+	 }
+	 p{
+		 color:$white;
+		 font-size: $subHeading;
+		 margin-bottom: 20px;
+	 }
+	 a{
+		 margin-bottom: 20px;
+	 }
+ }
+ .worker-image{
+	 height: 470px;
+	 position: relative;
+	 margin-top: -100px;
  }
 /********************************* Services Styles *****************************/
 .services-container{
@@ -739,7 +774,17 @@ border: none;
 		opacity:0.5;
 	}
 }
-
+.btn-default{
+	color: $white;
+	background-color: $lightGrey;
+	border-color: $lightGrey;
+	&:hover{
+		color: $white;
+		background-color: $lightGrey;
+		border-color: $lightGrey;
+		opacity:0.5;
+	}
+}
 .btn-danger{
 	background-color: $orange;
 	border-color: $orange;

diff --git a/public/scripts/controllers/homeController.js b/public/scripts/controllers/homeController.js
@@ -15,5 +15,5 @@ myApp.controller("homeController", ['$scope', '$http', '$location', function($sc
     pauseOnFocus: false
   });
   // set footer position for page
-  angular.element(document.getElementById("footerSection")).css("position","relative");
+  angular.element(document.getElementById("footerSection")).css({"position":"relative", "margin-top":" -11px"});
 }]);
